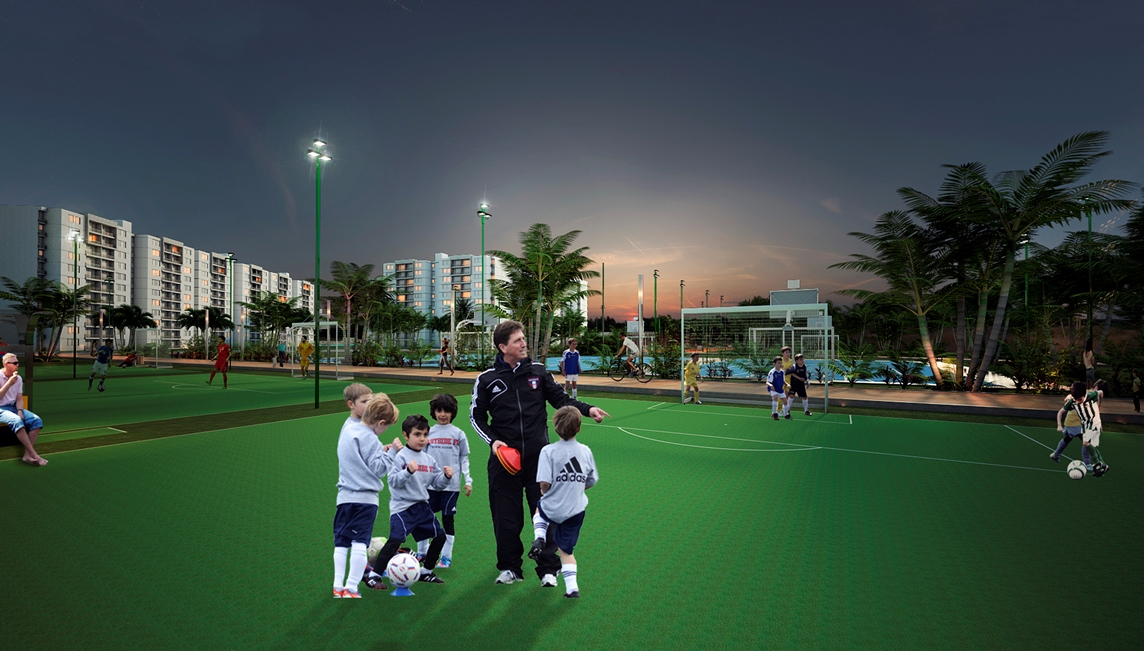
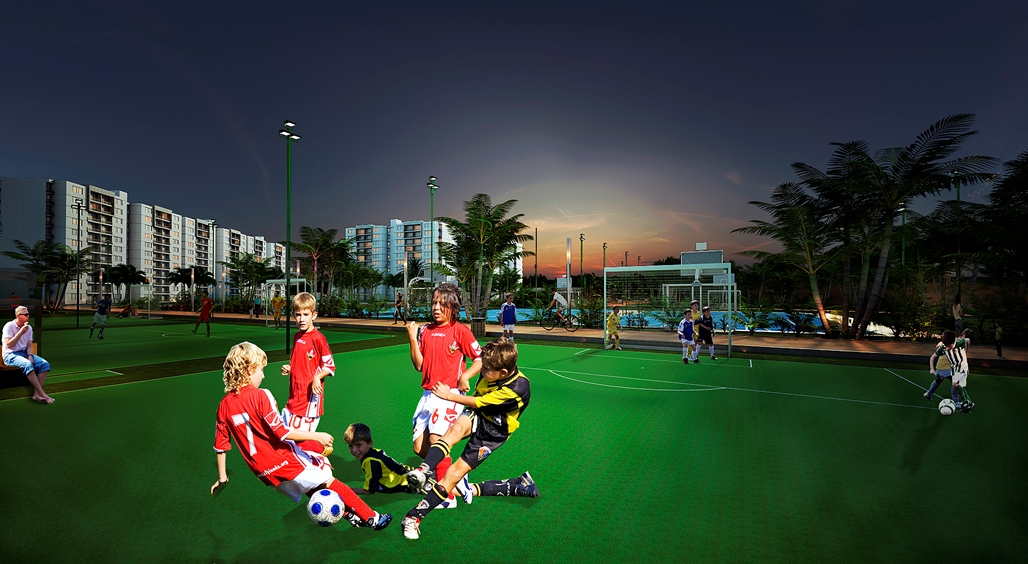
Nuevos ajustes de textos e imágenes.

diff --git a/marAdentro.php b/marAdentro.php
@@ -98,22 +98,15 @@ $dia[3]['img'] = "dia/4.jpg";
 				<div class="col-lg-10 col-md-10 col-xs-12 col-sm-12">
 					<h2 class="tituloSeccion text-center" style="text-transform:uppercase">La Nueva Era de la Vivienda en Colombia</h2>
 					<p class="pInternas2">
- 
+ <br><br>
 					El azul turquesa del mar cristalino, la arena blanca, el movimiento de las palmeras, la brisa suave que golpea nuestro rostro, son vivencias que disfrutamos cuando estamos frente al mar.
- 					<br><br>	
+ <br><br>
 					<strong>Mar Adentro</strong> es una forma de vida, donde la arquitectura se compagina con su contexto natural y se genera un hábitat único y especial.
- 					<br><br>
+					 <br><br>
 					<strong>Mar Adentro</strong> es una iniciativa privada que trae la única tecnología capaz de crear una experiencia Caribe. Así Constructora NIO, en alianza con  Crystal Lagoons, creadora de lagunas cristalinas y mares interiores que han revolucionado el mercado mundial de vivienda, el amenity top del momento,  convierten un lugar tradicional en un paraíso idílico.
- 					<br><br>
-					Sus espacios son diseñados para ser altamente eficientes, con precios asequibles acordes con las necesidades de sus habitantes, haciéndolo un proyecto integral en tres categorías: <i>Gold, Platino y Diamante</i>.
-
-
-					<!--<br>
-					<center><a href="files/Brochure.pdf" target="_blank" type="button" class="btn btn-danger fa fa-file-pdf-o" style="padding:2%;border:none">
-					    <i class="fa fa-file-pdf-o">
-					    	<img src="img/bajar.png" />
-					    </i> Descargar Brochure
-					  </a></center>-->
+					 <br><br>
+					Sus espacios son diseñados para ser altamente eficientes, con precios acordes a las necesidades de sus habitantes, haciéndolo un proyecto integral en tres categorías: <i>Gold, Platino y Diamante.</i>
+					</p>
 				</div>
 				<div class="col-lg-1 col-md-1 col-xs-12 col-sm-12 visible-lg visible-md"></div>
 			</div>
@@ -179,10 +172,9 @@ $dia[3]['img'] = "dia/4.jpg";
 								<p class="pInternas2"><br>
 									El oro se asocia con felicidad, lujo y exclusividad. Entre sus mayores propiedades está su calidad pues después de muchos años mantiene intacto el brillo del primer día. Y es con esas cualidades que <strong>Constructora NIO</strong> creó esta categoría Gold.<br><br>
  
-									Como el metal dorado Gold quiere llevar a sus residentes y visitantes a hacer posible su sueño de vivir cómodamente, con hermosos espacios dotados con el equipamiento necesario para vivir en familia, en pareja o entre amigos disfrutando de momentos únicos por siempre.<br><br>
+									Como el metal dorado Gold quiere llevar a sus residentes y visitantes a hacer posible su sueño de vivir cómodamente, con hermosos espacios dotados con el equipamiento necesario para gozar en familia, en pareja o entre amigos disfrutando de momentos únicos por siempre.<br><br>
 									 
-									Para la <strong>Constructora NIO</strong> la categoría Gold significa darle la mejor calidad a quienes apreciarán esta alternativa de vivienda.
- 
+									Para la <strong>Constructora NIO</strong> la categoría Gold significa dar la mejor calidad a quienes aprecian esta alternativa de vivienda.
 								</p>
 					            
 					        </div>
@@ -220,10 +212,10 @@ $dia[3]['img'] = "dia/4.jpg";
 								</div>
 								<p class="pInternas2"><br>
 									La experiencia Platino evoca ese metal noble que se destaca como el símbolo de un estilo vanguardista, con bellas y muy completas posibilidades que satisfacen los deseos de sus habitantes, quienes gozarán de mayores espacios para compartir con amigos y seres queridos.<br><br>
+ 
+									El de Platino es el color de la modernidad que permitirá diversos usos a estas viviendas cuya característica es la originalidad, lo liviano, la luz y la exclusividad.<br><br>
 									 
-									El de Platino es el color moderno que permitirá diversos usos a estas viviendas cuya característica es la originalidad, lo liviano y la luz.<br><br>
-									 
-									Al interior de estos proyectos se disfrutará de amplitud, con materiales de muy buen nivel que facilitan la creación de ambientes cómodos, contemporáneos y armónicos con la naturaleza.<br><br>
+									Al interior de estos proyectos se disfrutará con materiales de muy buen nivel que facilitan la creación de ambientes cómodos, contemporáneos, armónicos con la naturaleza y muy exclusivos.
 								</p>
 
 					        </div>
@@ -260,13 +252,13 @@ $dia[3]['img'] = "dia/4.jpg";
 								  </a>
 								</div>
 								<p class="pInternas2"><br>
-									<strong>Mar Adentro</strong>  Diamante es perfección, pureza, triunfo, firmeza, dureza, brillo y luminosidad, las características de esta categoría de NIO en su proyecto <strong>Mar Adentro</strong>.<br><br>
- 
-									Aquí la sofisticación, la comodidad y la exquisitez de esta piedra preciosa garantizan el bienestar, claves de una experiencia Diamante.<br><br>
-									 
-									El Diamante es único por excelencia, y así es su categoría en <strong>Mar Adentro</strong>.<br><br>
-									 
-									Nuestra meta con Diamante es brindar la mejor sensación a quien disfrute de estos lugares, dotados con soluciones de última tecnología, en proyectos que plantean viviendas  inteligentes, acabados de lujo, conexión con la naturaleza, arquitectura personalizada dirigida a necesidades especificas, extensos espacios que ayudarán a soñar, convirtiéndolo en el sitio ideal para ser feliz.
+									<strong>Mar Adentro</strong>  Diamante es perfección, pureza, triunfo, firmeza, dureza, brillo y luminosidad, las características de esta categoría de NIO en su proyecto <strong>Mar Adentro</strong>.
+ <br><br>
+									Aquí la sofisticación, la comodidad y la exquisitez de esta piedra preciosa garantizan el bienestar, claves de una experiencia Diamante.
+									 <br><br>
+									El Diamante es único por excelencia, y así es su categoría en <strong>Mar Adentro</strong>.
+									 <br><br>
+									Nuestra meta con Diamante es brindar la mejor sensación a quien disfrute de estos lugares, dotados con soluciones de última tecnología, en proyectos que plantean viviendas  inteligentes, acabados de lujo, conexión con la naturaleza, arquitectura personalizada dirigida a necesidades especificas, espacios que ayudarán a soñar, convirtiéndolo en el sitio ideal para ser feliz.
 								</p>
 
 					        </div>

diff --git a/opcMenu.php b/opcMenu.php
@@ -10,21 +10,21 @@
 					            <li style="background:#eee"><a href="#"><strong>LÍNEA GOLD</strong></a></li>
 					            <li class="divider"></li>
 					            <li><a style="color:#005b84" href="<?php echo _DOMINIO?>proyectos/neiva">NEIVA</a></li>
+					            <li><a style="color:#005b84" href="<?php echo _DOMINIO?>proyectos/flandes">GIRARDOT/FLANDES</a></li>
 				            </ul>
 			            </div>
 			            <div class="col-sm-4">
 				            <ul class="multi-column-dropdown">
 					            <li style="background:#eee"><a href="#"><strong>LÍNEA PLATINO</strong></a></li>
 					            <li class="divider"></li>
-					            <li><a style="color:#005b84" href="<?php echo _DOMINIO?>proyectos/flandes">FLANDES PRÓXIMOS LANZAMIENTOS</a></li>
-				        		<li><a style="color:#005b84" href="<?php echo _DOMINIO?>proyectos/cartagena">CARTAGENA PRÓXIMOS LANZAMIENTOS</a></li>
+					            <li><a style="color:#005b84" href="<?php echo _DOMINIO?>proyectos/flandes">GIRARDOT/FLANDES</a></li>
 				            </ul>
 			            </div>
 			            <div class="col-sm-4">
 				            <ul class="multi-column-dropdown">
 					            <li style="background:#eee"><a href="#"><strong>LÍNEA DIAMANTE</strong></a></li>
 					            <li class="divider"></li>
-					            <li><a style="color:#005b84" href="<?php echo _DOMINIO?>proyectos/flandes">FLANDES PRÓXIMOS LANZAMIENTOS</a></li>
+					            <li><a style="color:#005b84" href="<?php echo _DOMINIO?>proyectos/flandes">GIRARDOT/FLANDES</a></li>
 				        		<li><a style="color:#005b84" href="<?php echo _DOMINIO?>proyectos/cartagena">CARTAGENA PRÓXIMOS LANZAMIENTOS</a></li>
 				            </ul>
 			            </div>
@@ -47,21 +47,19 @@
 		        	<a style="color:#005b84" tabindex="-1">LÍNEA GOLD <b class="glyphicon glyphicon-triangle-right mini"></b></a>
 		        	<ul class="dropdown-menu">
 				        <li><a style="color:#005b84" href="<?php echo _DOMINIO?>proyectos/neiva">NEIVA</a></li>
-				        <!--<li><a style="color:#005b84" href="<?php echo _DOMINIO?>proyectos/flandes">FLANDES PRÓXIMOS LANZAMIENTOS</a></li>
-				        <li><a style="color:#005b84" href="<?php echo _DOMINIO?>proyectos/cartagena">CARTAGENA PRÓXIMOS LANZAMIENTOS</a></li>-->
+				        <li><a style="color:#005b84" href="<?php echo _DOMINIO?>proyectos/flandes">GIRARDOT/FLANDES</a></li>
 					</ul>
 		        </li>
 		        <li class="dropdown-submenu">
 		        	<a style="color:#005b84" tabindex="-1">LÍNEA PLATINO <b class="glyphicon glyphicon-triangle-right mini"></b></a>
 		        	<ul class="dropdown-menu">
-				        <li><a style="color:#005b84" href="<?php echo _DOMINIO?>proyectos/flandes">FLANDES PRÓXIMOS LANZAMIENTOS</a></li>
-				        <li><a style="color:#005b84" href="<?php echo _DOMINIO?>proyectos/cartagena">CARTAGENA PRÓXIMOS LANZAMIENTOS</a></li>
+				        <li><a style="color:#005b84" href="<?php echo _DOMINIO?>proyectos/flandes">GIRARDOT/FLANDES</a></li>
 					</ul>
 		        </li>
 		        <li class="dropdown-submenu">
 		        	<a style="color:#005b84"  tabindex="-1">LÍNEA DIAMANTE <b class="glyphicon glyphicon-triangle-right mini"></b></a>
 		        	<ul class="dropdown-menu">
-		        		<li><a style="color:#005b84" href="<?php echo _DOMINIO?>proyectos/flandes">FLANDES PRÓXIMOS LANZAMIENTOS</a></li>
+		        		<li><a style="color:#005b84" href="<?php echo _DOMINIO?>proyectos/flandes">GIRARDOT/FLANDES</a></li>
 				        <li><a style="color:#005b84" href="<?php echo _DOMINIO?>proyectos/cartagena">CARTAGENA PRÓXIMOS LANZAMIENTOS</a></li>
 					</ul>
 		        </li>

diff --git a/pie.php b/pie.php
@@ -17,21 +17,22 @@
 					            <li style="background:#eee"><a href="#"><strong>LÍNEA GOLD</strong></a></li>
 					            <li class="divider"></li>
 					            <li><a style="color:#fff" href="<?php echo _DOMINIO?>proyectos/neiva">NEIVA</a></li>
+					            <li><a style="color:#fff" href="<?php echo _DOMINIO?>proyectos/flandes">GIRARDOT/FLANDES</a></li>
 				            </ul>
 			            </div>
 			            <div class="col-sm-4">
 				            <ul class="multi-column-dropdown">
 					            <li style="background:#eee"><a href="#"><strong>LÍNEA PLATINO</strong></a></li>
 					            <li class="divider"></li>
-					            <li><a style="color:#fff" href="<?php echo _DOMINIO?>proyectos/flandes">FLANDES PRÓXIMOS LANZAMIENTOS</a></li>
-				        		<li><a style="color:#fff" href="<?php echo _DOMINIO?>proyectos/cartagena">CARTAGENA PRÓXIMOS LANZAMIENTOS</a></li>
+					            <li><a style="color:#fff" href="<?php echo _DOMINIO?>proyectos/flandes">GIRARDOT/FLANDES</a></li>
 				            </ul>
 			            </div>
 			            <div class="col-sm-4">
 				            <ul class="multi-column-dropdown">
 					            <li style="background:#eee"><a href="#"><strong>LÍNEA DIAMANTE</strong></a></li>
 					            <li class="divider"></li>
-				        		<li><a style="color:#fff" href="<?php echo _DOMINIO?>proyectos/cartagena">CARTAGENA PRÓXIMOS LANZAMIENTOS</a></li>
+					            <li><a style="color:#fff" href="<?php echo _DOMINIO?>proyectos/flandes">GIRARDOT/FLANDES</a></li>
+				        		<li><a style="color:#fff" href="<?php echo _DOMINIO?>proyectos/cartagena">CARTAGENA</a></li>
 				            </ul>
 			            </div>
 		            </div>
@@ -49,20 +50,21 @@
 							        	<a style="color:#005b84" href="#" tabindex="-1">LÍNEA GOLD <b class="glyphicon glyphicon-triangle-right mini"></b></a>
 							        	<ul class="dropdown-menu">
 									        <li><a style="color:#005b84" href="<?php echo _DOMINIO?>proyectos/neiva">NEIVA</a></li>
+					            			<li><a style="color:#005b84" href="<?php echo _DOMINIO?>proyectos/flandes">GIRARDOT/FLANDES</a></li>
 										</ul>
 							        </li>
 							        <li  class="dropdown-submenu">
 							        	<a style="color:#005b84" href="#" tabindex="-1">LÍNEA PLATINO <b class="glyphicon glyphicon-triangle-right mini"></b></a>
 							        	<ul class="dropdown-menu">
-									        <li><a style="color:#005b84" href="<?php echo _DOMINIO?>proyectos/flandes">FLANDES PRÓXIMOS LANZAMIENTOS</a></li>
-									        <li><a style="color:#005b84" href="<?php echo _DOMINIO?>proyectos/cartagena">CARTAGENA PRÓXIMOS LANZAMIENTOS</a></li>
+					            			<li><a style="color:#005b84" href="<?php echo _DOMINIO?>proyectos/flandes">GIRARDOT/FLANDES</a></li>
 										</ul>
 
 							        </li>
 							        <li  class="dropdown-submenu">
 							        	<a style="color:#005b84" href="#" tabindex="-1">LÍNEA DIAMANTE <b class="glyphicon glyphicon-triangle-right mini"></b></a>
 							        	<ul class="dropdown-menu">
-									        <li><a style="color:#005b84" href="<?php echo _DOMINIO?>proyectos/cartagena">CARTAGENA PRÓXIMOS LANZAMIENTOS</a></li>
+					            			<li><a style="color:#005b84" href="<?php echo _DOMINIO?>proyectos/flandes">GIRARDOT/FLANDES</a></li>
+									        <li><a style="color:#005b84" href="<?php echo _DOMINIO?>proyectos/cartagena">CARTAGENA</a></li>
 										</ul>
 
 							        </li>

diff --git a/proyectosNeiva.php b/proyectosNeiva.php
@@ -103,9 +103,12 @@ $curacao[4]['img'] = "../img2.jpg";*/
 					<h1>NEIVA</h1>
 					<!--<img src="<?php echo _DOMINIO ?>img/master.png" class="img-thumbnail"><br><br>-->
 					<p class="pInternas">
-						La primera ciudad privilegiada con esta novedosa alternativa de vivienda que cambia por completo el estilo de vida de sus habitantes y visitantes, será Neiva, en la capital del Huila, a 38 grados centígrados, Avenida Max Duque contiguo a la base militar.<br><br>
-						 
-						Será un proyecto integral pues traerá comercio, urbanismo natural, sostenibilidad, alamedas, kilómetros de ciclo rutas,  dos sedes sociales, club playa, parques, biblioteca y una inmensa laguna cristalina semejante al mar, entre otras novedades. Es un nuevo estilo de vida, de confort. En Neiva lanzamos el primer proyecto Mar Adentro Gold, con dos conjuntos residenciales independientes llamados Aruba y Curacao.
+						La primera privilegiada con esta novedosa alternativa de vivienda que cambia por completo el estilo de vida de sus habitantes y visitantes, es Neiva, en la capital del Huila, a 38 grados centígrados.<br><br>
+
+   
+						Proponemos una ciudad dentro de la ciudad, en donde se integra el comercio, el urbanismo natural, sostenibilidad, comercio, alamedas, kilómetros de ciclo rutas, dos sedes sociales, club playa, parques, biblioteca y una experiencia única que recrea la vivencia del mar.<br><br>
+
+						 Es un nuevo estilo de vida, de confort. En Neiva lanzamos el primer proyecto Mar Adentro Gold, con dos conjuntos residenciales independientes llamados Aruba y Curacao.
 					</p>
 				</div>
 				<div class="col-lg-2 col-md-2 col-xs-12 col-sm-12 visible-lg visible-md"></div>
@@ -148,12 +151,11 @@ $curacao[4]['img'] = "../img2.jpg";*/
 									<div class="col-lg-12 col-md-12 col-xs-12 col-sm-12">
 										<p class="pInternas2">
 										<img src="<?php echo _DOMINIO ?>img/masterOLD.png" class="img-thumbnail"><br><br>
-										Lorem ipsum dolor sit amet, consectetur adipisicing elit, sed do eiusmod
-										tempor incididunt ut labore et dolore magna aliqua. Ut enim ad minim veniam,
-										quis nostrud exercitation ullamco laboris nisi ut aliquip ex ea commodo
-										consequat. Duis aute irure dolor in reprehenderit in voluptate velit esse
-										cillum dolore eu fugiat nulla pariatur. Excepteur sint occaecat cupidatat non
-										proident, sunt in culpa qui officia deserunt mollit anim id est laborum.
+										Será un auténtico Club Residencial que se desarrollará en 14 etapas las cuales sumarán 81 torres de 11 pisos cada una, 8 apartamentos por piso, dos ascensores por torre, parqueadero cerrado, grandes zonas verdes, 14 piscinas una frente a cada manzana y 5 hectáreas de mar.<br><br>
+ 
+										Al estar en el sur de Neiva se crea un nuevo polo de desarrollo socioeconómico, turístico y comercial. El proyecto tiene club social, club playa, senderos, canchas de fútbol, múltiples, de tenis, islas de ejercicio externas y plazas de descanso, ciclo rutas entre otros atractivos.<br><br>
+										 
+										Mar Adentro le cede a la ciudad un parque y una biblioteca públicos con la misma arquitectura del proyecto. 
 										</p>
 									</div>
 								</div>

diff --git a/pestMasterPlan.php b/pestMasterPlan.php
@@ -9,15 +9,15 @@ $ch[0]['img'] = "img/club/1.jpg";
 $ch[1]['img'] = "img/club/2.jpg";
 $ch[2]['img'] = "img/club/3.jpg";
 $ch[3]['img'] = "img/club/4.jpg";
-$ch[4]['img'] = "img/club/5.png";
+$ch[4]['img'] = "img/club/5.jpg";
 $ch[5]['img'] = "img/club/6.jpg";
 
 $cp[0]['img'] = "img/ameSer/1.jpg";
-$cp[1]['img'] = "img/ameSer/2.jpg";
-$cp[2]['img'] = "img/ameSer/3.jpg";
-$cp[3]['img'] = "img/ameSer/4.jpg";
-$cp[4]['img'] = "img/ameSer/5.jpg";
-$cp[5]['img'] = "img/ameSer/6.jpg";
+//$cp[1]['img'] = "img/ameSer/2.jpg";
+$cp[1]['img'] = "img/ameSer/3.jpg";
+$cp[2]['img'] = "img/ameSer/4.jpg";
+$cp[3]['img'] = "img/ameSer/5.jpg";
+$cp[4]['img'] = "img/ameSer/6.jpg";
 ?>
 
 <div id="my-tab-content" class="tab-content">
@@ -93,7 +93,7 @@ $cp[5]['img'] = "img/ameSer/6.jpg";
     </div>
     <!-- Tab 3-->
     <div class="tab-pane" id="clubP">
-        <h2 class="tituloSeccion text-left">AMENITIES y SERVICIOS</h2>
+        <h2 class="tituloSeccion text-left">AMENITIES Y SERVICIOS</h2>
         <div id="CarouselCP" class="carousel slide" data-ride="carousel">
 		  <ol class="carousel-indicators">
 		  	  <?php $cont2=1;foreach($cp as $cu2){ ?>

diff --git a/proyectosFlandes.php b/proyectosFlandes.php
@@ -117,7 +117,7 @@ $curacao[2]['img'] = "3.png";
 				<div class="col-lg-6 col-md-6 col-xs-12 col-sm-12">
 					<center>
 					    <ul id="tabs" class="nav nav-pills nav-justified">
-					        <li><a href="#yellow" data-toggle="tab">AMENITIES</a></li>
+					        <li><a href="#yellow" data-toggle="tab">MASTER PLAN</a></li>
 					        <li><a href="#green" data-toggle="tab">UBICACIÓN</a></li>
 					    </ul>
 				    </center>
@@ -137,7 +137,7 @@ $curacao[2]['img'] = "3.png";
 					    <div id="my-tab-content" class="tab-content">
 
 					        <div class="tab-pane" id="yellow">
-					            <h2 class="tituloSeccion text-left">AMENITIES</h2>
+					            <h2 class="tituloSeccion text-left">MASTER PLAN</h2>
 					           	<div id="myCarousel" class="carousel slide" data-ride="carousel">
 								  <ol class="carousel-indicators">
 								    <li data-target="#myCarousel" data-slide-to="0" class="active"></li>

diff --git a/index.php b/index.php
@@ -76,7 +76,7 @@
                     <!--<h2 class="text-center">Caption 1</h2>-->
                     <h2 class="text-center">
                     <!--<i class="fa fa-heart" aria-hidden="true"></i>-->
-Nuestra meta es brindarle la mejor Calidad de Vida.</h2>
+Nuestra meta es brindarle la mejor calidad de vida.</h2>
                 </div>
             </div>
             <div class="item">
@@ -90,7 +90,7 @@ Nuestra meta es brindarle la mejor Calidad de Vida.</h2>
                 <!-- Set the third background image using inline CSS below. -->
                 <div class="fill" style="background-image:url('img/4.jpg');"></div>
                 <div class="carousel-caption" style="text-align: left;">
-                    <h2 class="text-center">Transformamos Su Estilo de Vida.</h2>
+                    <h2 class="text-center">Transformamos su estilo de vida.</h2>
                 </div>
             </div>
         </div>

diff --git a/crystalLagoons.php b/crystalLagoons.php
@@ -80,7 +80,7 @@ energía utilizada por los sistemas tradicionales de filtración.
 	<div class="container-fluid" style="padding: 3%;background:#f1f1f1"	>
 		<div class="container text-center">
 
-					<h2 class="tituloSeccion text-center">CASOS DE ÉXITO</h2><br><br>
+					<h2 class="tituloSeccion text-center">DESARROLLOS EN EL MUNDO</h2><br><br>
 			<div class="row">
 				<div class="col-lg-3 col-md-3 col-xs-12 col-sm-12">
 					<div class="card">
